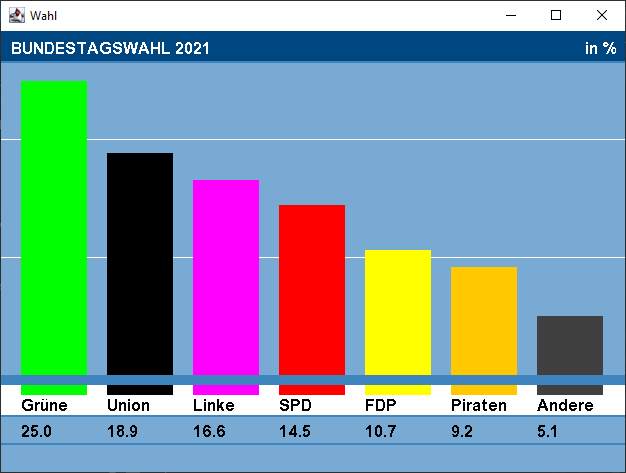
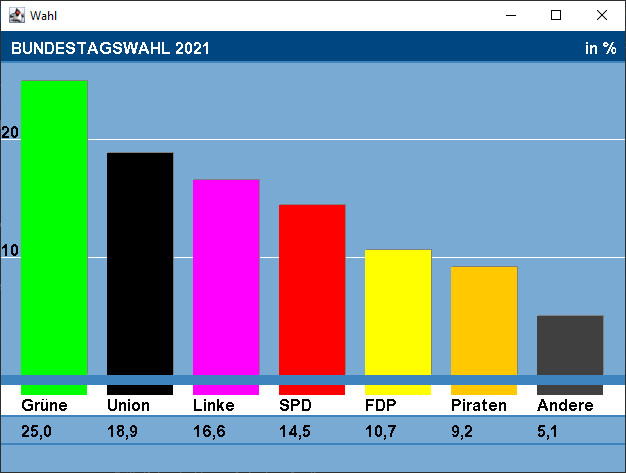
Added shadows and scala

Changed region(s): [[0.0, 0.5032, 0.0304, 0.5328], [0.0, 0.2664, 0.0304, 0.296]]

diff --git a/src/de/dhbwka/java/exercise/ui/paint/Election.java b/src/de/dhbwka/java/exercise/ui/paint/Election.java
@@ -1,26 +1,23 @@
 package de.dhbwka.java.exercise.ui.paint;
 
-import com.sun.xml.internal.ws.wsdl.writer.document.Part;
-import de.dhbwka.java.utilities.search.Biggest;
-
 import javax.swing.*;
 import java.awt.*;
 
-public class Election extends JComponent{
+public class Election extends JComponent {
     private final static int MARGIN_LEFT = 10;
     private final static int MARGIN_RIGHT = 10;
     private final static int MARGIN_TOP = 50;
-    private final static Color TOP_COL = new Color( 0, 71, 129 );
-    private final static Color BG_COL = new Color( 121, 170, 211 );
-    private final static Color RULER_COL = new Color( 62, 133, 192 );
-    private final static Font FONT = new Font( Font.SANS_SERIF, Font.BOLD, 16 );
+    private final static Color TOP_COL = new Color(0, 71, 129);
+    private final static Color BG_COL = new Color(121, 170, 211);
+    private final static Color RULER_COL = new Color(62, 133, 192);
+    private final static Font FONT = new Font(Font.SANS_SERIF, Font.BOLD, 16);
     private final static String INFO_TEXT = "in %";
 
     private final Party[] parties;
     private final String title;
     private double maxPercentage;
 
-    public Election(String title, Party[] parties){
+    public Election(String title, Party[] parties) {
         this.title = title.toUpperCase();
         this.parties = parties;
         maxPercentage = sortPartiesAndReturnBestVoted().getPercent();
@@ -35,73 +32,80 @@ public class Election extends JComponent{
         //Max bar height -> 2/3 height
         int totalBarHeight = height * 2 / 3;
         //height per %
-        double heightPerPercent = totalBarHeight/maxPercentage;
+        double heightPerPercent = totalBarHeight / maxPercentage;
         //add topMargin to biggestBarHeight to get the point for writing below
         int belowBars = totalBarHeight + MARGIN_TOP;
 
         //drawBackground
         g.setColor(BG_COL);
-        g.fillRect(0,0,width,height);
+        g.fillRect(0, 0, width, height);
         //drawHeading
         g.setColor(TOP_COL);
-        g.fillRect(0,0,width,30);
+        g.fillRect(0, 0, width, 30);
         g.setColor(Color.white);
         g.drawString(title, MARGIN_LEFT, 23);
-        g.drawString("in %", width-40, 23 );
+        g.drawString(INFO_TEXT, width - 40, 23);
         g.setColor(RULER_COL);
-        g.fillRect(0,30,width,2);
+        g.fillRect(0, 30, width, 2);
 
         //Draw white block with darkBlue line
         //Ruler above white
         g.setColor(RULER_COL);
-        g.fillRect(0,belowBars,width,10);
+        g.fillRect(0, belowBars, width, 10);
         //small line below white block
-        g.fillRect(0,belowBars+40,width,2);
+        g.fillRect(0, belowBars + 40, width, 2);
         //small line in middle of white block and bottom end of frame
-        g.fillRect(0,(((height-(belowBars+40+2))/2-1)+(belowBars+40+2)),width, 2);
+        g.fillRect(0, (((height - (belowBars + 40 + 2)) / 2 - 1) + (belowBars + 40 + 2)), width, 2);
         //white block
         g.setColor(Color.white);
-        g.fillRect(0,belowBars+10, width,30);
+        g.fillRect(0, belowBars + 10, width, 30);
 
         //white helping lines a 10%
-        g.setColor(Color.white);
-        for (int i = 1; i<=(height-(height-belowBars)-42); i++){
-            g.fillRect(0,(int) (height-(height-belowBars)-i*10*heightPerPercent), width, 1);
+        for (int i = 1; i <= (height - (height - belowBars) - 42); i++) {
+            int y = (int) (height - (height - belowBars) - i * 10 * heightPerPercent);
+            g.setColor(Color.white);
+            g.fillRect(0, y, width, 1);
+            g.setColor(Color.black);
+            g.drawString(Integer.toString(i*10), 0, y-1);
         }
 
         //drawParties
         drawParties(g, width, height, heightPerPercent, belowBars);
     }
 
-    private void drawParties(Graphics g, int width, int height, double heightPerPercent, int belowBars){
+    private void drawParties(Graphics g, int width, int height, double heightPerPercent, int belowBars) {
         int maxBarWidth = (width - MARGIN_LEFT - MARGIN_RIGHT) / this.parties.length;
 
 
-        for (int i = 0; i<parties.length; i++){
+        for (int i = 0; i < parties.length; i++) {
             //main bar
             g.setColor(parties[i].getColor());
-            g.fillRect((MARGIN_LEFT+10+maxBarWidth*i), (belowBars-(int)(heightPerPercent*parties[i].getPercent())), maxBarWidth-20, (int)(heightPerPercent*parties[i].getPercent()));
+            g.fillRect((MARGIN_LEFT + 10 + maxBarWidth * i), (belowBars - (int) (heightPerPercent * parties[i].getPercent())), maxBarWidth - 20, (int) (heightPerPercent * parties[i].getPercent()));
 
             //mini color bar above name
-            g.fillRect((MARGIN_LEFT+10+maxBarWidth*i), belowBars+10, maxBarWidth-20, 10);
+            g.fillRect((MARGIN_LEFT + 10 + maxBarWidth * i), belowBars + 10, maxBarWidth - 20, 10);
+
+            //grey shadow
+            g.setColor(Color.gray);
+            //horizontal
+            g.fillRect((MARGIN_LEFT + 10 + maxBarWidth * i + 1), (belowBars - (int) (heightPerPercent * parties[i].getPercent()) - 1), maxBarWidth - 20, 1);
+            //vertical
+            g.fillRect((MARGIN_LEFT + maxBarWidth - 10 + maxBarWidth * i), (belowBars - (int) (heightPerPercent * parties[i].getPercent())), 1, (int) (heightPerPercent * parties[i].getPercent()) - 1);
 
             //name
             g.setColor(Color.BLACK);
-            g.drawString(parties[i].getName(), MARGIN_LEFT+10+i*maxBarWidth, belowBars+36); //10-darkblueHorizontalBar 10-mini color bar above name 20-AllRemainingWhiteSpace -4-setToMiddleOfWhiteSpace
+            g.drawString(parties[i].getName(), MARGIN_LEFT + 10 + i * maxBarWidth, belowBars + 36); //10-darkblueHorizontalBar 10-mini color bar above name 20-AllRemainingWhiteSpace -4-setToMiddleOfWhiteSpace
             //percentage
-            g.drawString(Double.toString(parties[i].getPercent()), MARGIN_LEFT+10+i*maxBarWidth, belowBars+62); //40-seeAbove 2-darkblue small horizontal bar below white bar 20-small space between bars(4) and number(16)
+            g.drawString(Double.toString(parties[i].getPercent()).replaceAll("\\.", ","), MARGIN_LEFT + 10 + i * maxBarWidth, belowBars + 62); //40-seeAbove 2-darkblue small horizontal bar below white bar 20-small space between bars(4) and number(16)
         }
     }
 
-    private Party sortPartiesAndReturnBestVoted(){
+    private Party sortPartiesAndReturnBestVoted() {
         Party help;
-        if (parties.length>=2) {
+        if (parties.length >= 2) {
             for (int i = 1; i < parties.length; i++) {
                 int j = i;
-                while (j>=1 && (parties[j].getPercent() > parties[j - 1].getPercent())) {
-                    System.out.println(parties[j].toString());
-                    System.out.println(parties[j-1].toString());
-                    System.out.println("-----");
+                while (j >= 1 && (parties[j].getPercent() > parties[j - 1].getPercent())) {
                     help = parties[j];
                     parties[j] = parties[j - 1];
                     parties[j - 1] = help;
@@ -112,27 +116,27 @@ public class Election extends JComponent{
         return parties[0];
     }
 
-    public static void main(String[] args){
+    public static void main(String[] args) {
         JFrame frame = new JFrame();
         frame.setTitle("Wahl");
         frame.setDefaultCloseOperation(JFrame.EXIT_ON_CLOSE);
 
-        frame.add(new Election("Bundestagswahl 2021", new Party[] {
-                new Party( 18.9, "Union", Color.BLACK ),
-                new Party( 14.5, "SPD", Color.RED ),
-                new Party( 16.6, "Linke", Color.MAGENTA ),
-                new Party( 10.7, "FDP", Color.YELLOW ),
-                new Party( 9.2, "Piraten", Color.ORANGE ),
-                new Party( 25, "Gr\u00FCne", Color.GREEN ),
-                new Party( 5.1, "Andere", Color.DARK_GRAY ),
+        frame.add(new Election("Bundestagswahl 2021", new Party[]{
+                new Party(18.9, "Union", Color.BLACK),
+                new Party(14.5, "SPD", Color.RED),
+                new Party(16.6, "Linke", Color.MAGENTA),
+                new Party(10.7, "FDP", Color.YELLOW),
+                new Party(9.2, "Piraten", Color.ORANGE),
+                new Party(25, "Gr\u00FCne", Color.GREEN),
+                new Party(5.1, "Andere", Color.DARK_GRAY),
         }));
 
-        frame.setSize(640,480);
+        frame.setSize(640, 480);
         frame.setVisible(true);
     }
 }
 
-class Party{
+class Party {
     private String name;
     private double percent;
     private Color color;
